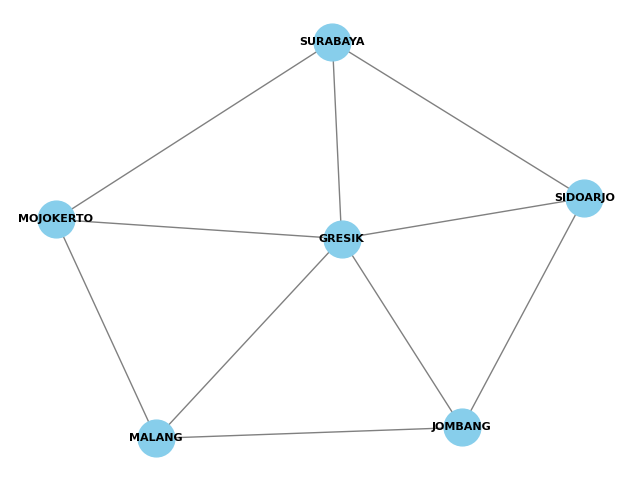
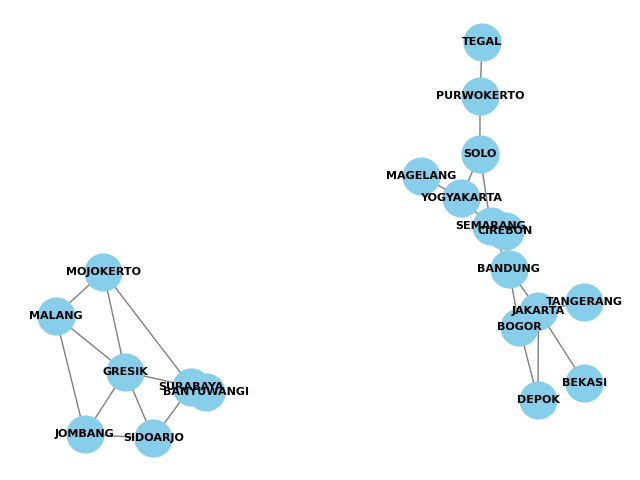
add city test

diff --git a/app.py b/app.py
@@ -7,14 +7,38 @@ import matplotlib.pyplot as plt
 app = Flask(__name__)
 
 # Data city_map
+# city_map = {
+#     'SURABAYA': {'SIDOARJO': 5, 'GRESIK': 9, 'MOJOKERTO': 4},
+#     'SIDOARJO': {'SURABAYA': 5, 'GRESIK': 3, 'JOMBANG': 7},
+#     'GRESIK': {'SURABAYA': 9, 'SIDOARJO': 3, 'MOJOKERTO': 2, 'JOMBANG': 6, 'MALANG': 3},
+#     'MOJOKERTO': {'SURABAYA': 4, 'GRESIK': 2, 'MALANG': 8},
+#     'JOMBANG': {'SIDOARJO': 7, 'GRESIK': 6, 'MALANG': 5},
+#     'MALANG': {'GRESIK': 3, 'MOJOKERTO': 8, 'JOMBANG': 5}
+# }
+
 city_map = {
-    'SURABAYA': {'SIDOARJO': 5, 'GRESIK': 9, 'MOJOKERTO': 4},
-    'SIDOARJO': {'SURABAYA': 5, 'GRESIK': 3, 'JOMBANG': 7},
+    'JAKARTA': {'BOGOR': 60, 'DEPOK': 25, 'TANGERANG': 35, 'BEKASI': 25, 'BANDUNG': 150},
+    'BOGOR': {'JAKARTA': 60, 'DEPOK': 30, 'BANDUNG': 120},
+    'DEPOK': {'JAKARTA': 25, 'BOGOR': 30},
+    'TANGERANG': {'JAKARTA': 35},
+    'BEKASI': {'JAKARTA': 25},
+    'BANDUNG': {'JAKARTA': 150, 'BOGOR': 120, 'CIREBON': 130, 'SEMARANG': 360},
+    'CIREBON': {'BANDUNG': 130, 'SEMARANG': 210},
+    'SEMARANG': {'CIREBON': 210, 'YOGYAKARTA': 120, 'SOLO': 100},
+    'YOGYAKARTA': {'SEMARANG': 120, 'SOLO': 60, 'MAGELANG': 40},
+    'SOLO': {'SEMARANG': 100, 'YOGYAKARTA': 60, 'PURWOKERTO': 170},
+    'MAGELANG': {'YOGYAKARTA': 40},
+    'PURWOKERTO': {'SOLO': 170, 'TEGAL': 100},
+    'TEGAL': {'PURWOKERTO': 100},
+    'SURABAYA': {'SIDOARJO': 25, 'GRESIK': 9, 'MOJOKERTO': 4, 'BANYUWANGI': 300},
+    'SIDOARJO': {'SURABAYA': 25, 'GRESIK': 3, 'JOMBANG': 7},
     'GRESIK': {'SURABAYA': 9, 'SIDOARJO': 3, 'MOJOKERTO': 2, 'JOMBANG': 6, 'MALANG': 3},
     'MOJOKERTO': {'SURABAYA': 4, 'GRESIK': 2, 'MALANG': 8},
     'JOMBANG': {'SIDOARJO': 7, 'GRESIK': 6, 'MALANG': 5},
-    'MALANG': {'GRESIK': 3, 'MOJOKERTO': 8, 'JOMBANG': 5}
+    'MALANG': {'GRESIK': 3, 'MOJOKERTO': 8, 'JOMBANG': 5},
+    'BANYUWANGI': {'SURABAYA': 300}
 }
+
 
 # BFS implementation
 def bfs(graph, start, goal):
